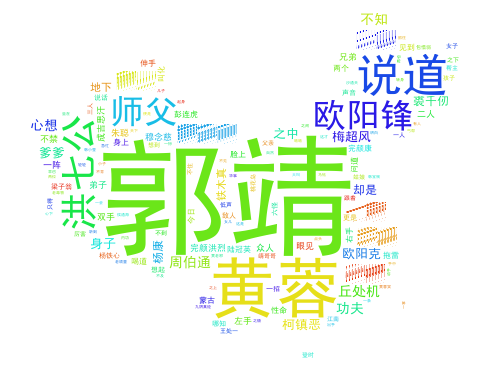
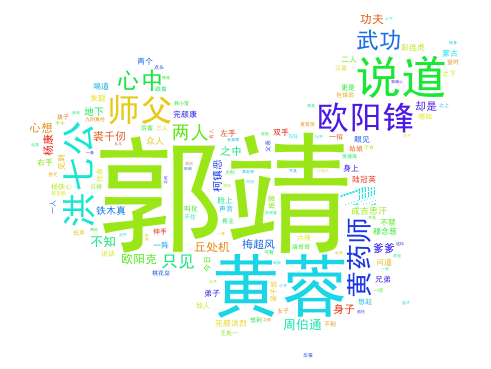
png looks better.

Changed region(s): [[0.0611, 0.0298, 0.947, 0.9241], [0.611, 0.9539, 0.6415, 0.9837]]

diff --git a/plotcloud/chinese/word_shediao.py b/plotcloud/chinese/word_shediao.py
@@ -69,7 +69,7 @@ print len(sentences)
 
 china_mask = np.array(Image.open(path.join(d, "china_mask_1.png")))
 wc = WordCloud(font_path='./simheittf/simhei.ttf', background_color="white", 
-              margin=5, width=1800, height=800, mask=china_mask)
+              margin=5, mask=china_mask, max_words=200)
 wc = wc.generate(sentences)
 wc.to_file(path.join(d, "shediao.png"))
 
